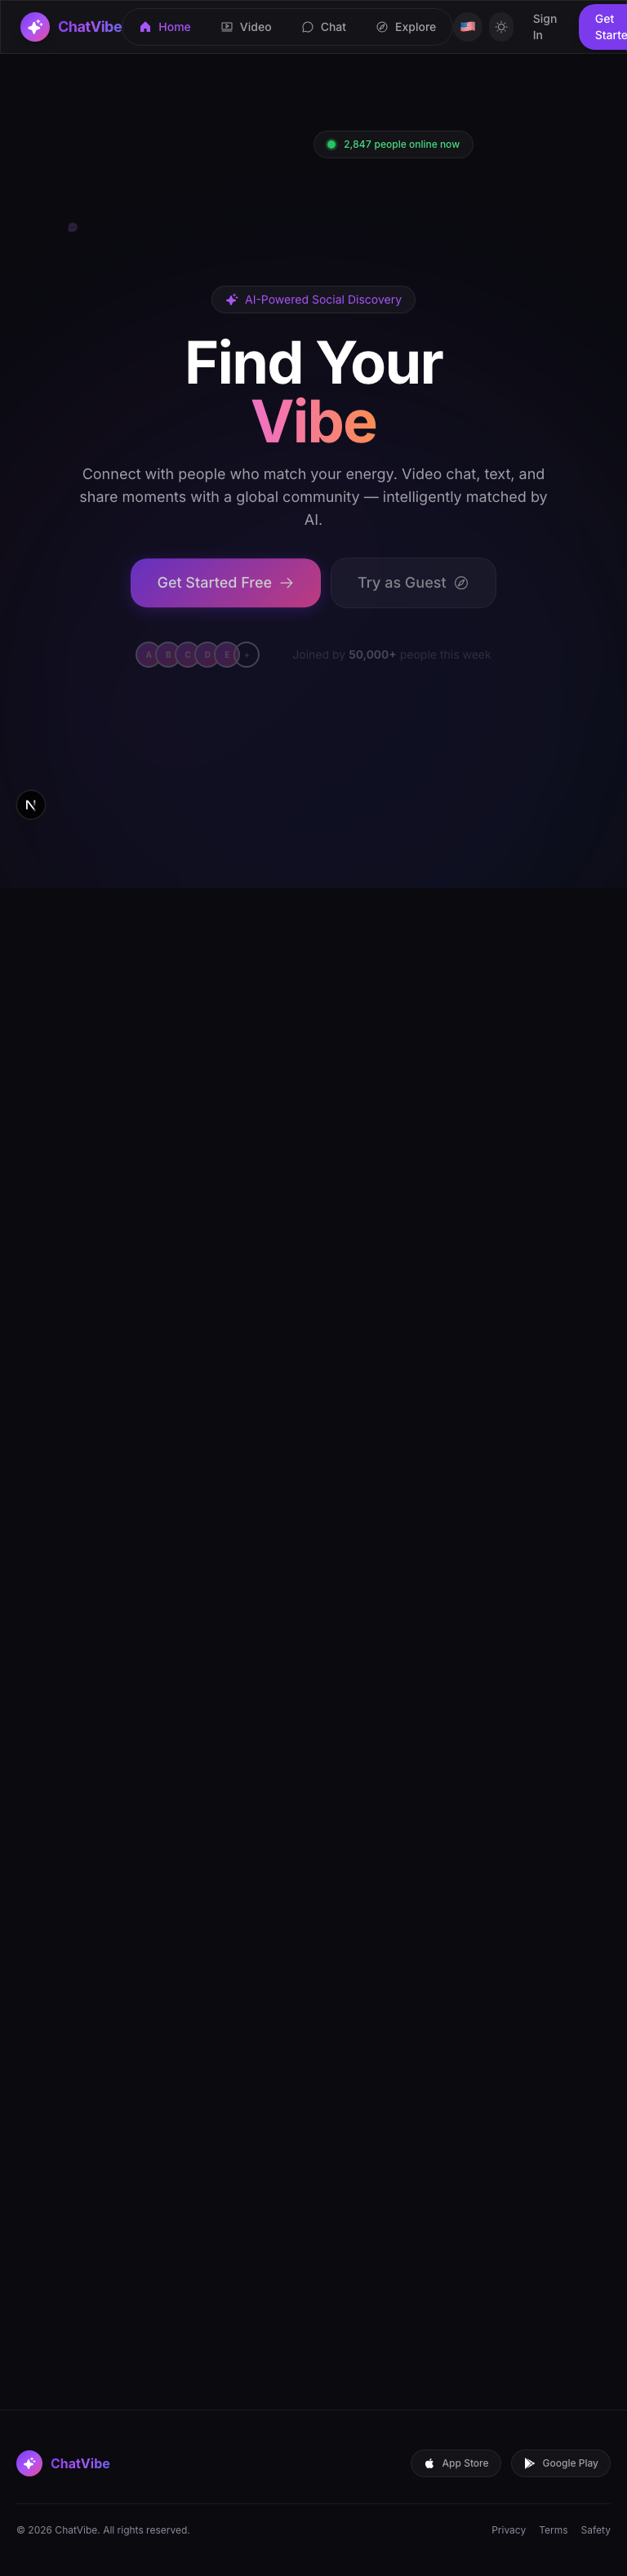
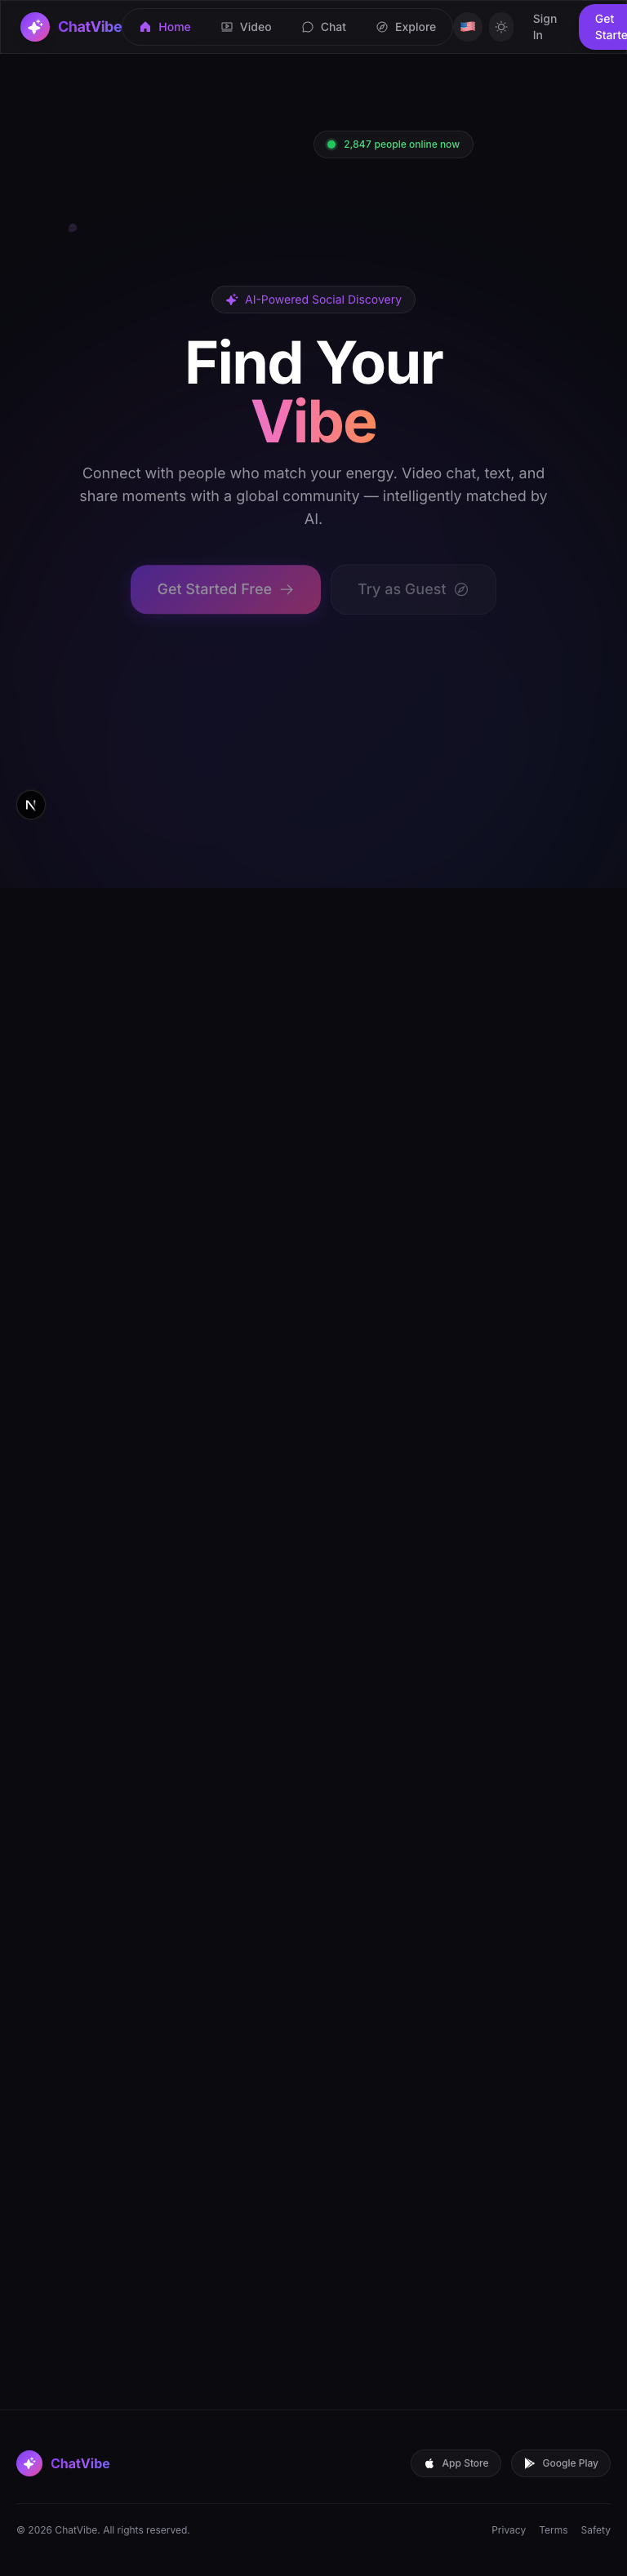
Fix OAuth error handling, add Suspense boundaries, improve signup UX

Changed region(s): [[0.1875, 0.2174, 0.5312, 0.2795], [0.6562, 0.2174, 0.6875, 0.2484]]

diff --git a/apps/web/src/app/auth/page.tsx b/apps/web/src/app/auth/page.tsx
@@ -1,7 +1,7 @@
 'use client';
 
-import { useState } from 'react';
-import { useRouter } from 'next/navigation';
+import { useState, useEffect, Suspense } from 'react';
+import { useRouter, useSearchParams } from 'next/navigation';
 import { motion } from 'framer-motion';
 import { useAuthStore } from '@/store/auth-store';
 import { supabase } from '@/lib/supabase';
@@ -11,13 +11,19 @@ import {
   Sparkle, ArrowRight, CheckCircle
 } from '@phosphor-icons/react';
 
-export default function AuthPage() {
+function AuthForm() {
   const router = useRouter();
+  const searchParams = useSearchParams();
   const { register, login, guestLogin, isLoading, error, message } = useAuthStore();
   const [mode, setMode] = useState<'login' | 'register'>('login');
   const [form, setForm] = useState({ email: '', password: '', displayName: '' });
   const [showPw, setShowPw] = useState(false);
   const [guestLoading, setGuestLoading] = useState(false);
+
+  useEffect(() => {
+    const err = searchParams.get('error');
+    if (err) useAuthStore.setState({ error: decodeURIComponent(err) });
+  }, [searchParams]);
 
   const toggleMode = () => setMode(m => m === 'login' ? 'register' : 'login');
 
@@ -195,10 +201,19 @@ export default function AuthPage() {
               return (
                 <button
                   key={s.label}
-                  onClick={() => supabase.auth.signInWithOAuth({
-                    provider: s.provider,
-                    options: { redirectTo: `${window.location.origin}/auth/callback` }
-                  })}
+                  onClick={async () => {
+                    try {
+                      const { error } = await supabase.auth.signInWithOAuth({
+                        provider: s.provider,
+                        options: { redirectTo: `${window.location.origin}/auth/callback` }
+                      });
+                      if (error) {
+                        useAuthStore.setState({ error: `${s.label} login failed: ${error.message}` });
+                      }
+                    } catch (err: any) {
+                      useAuthStore.setState({ error: `${s.label} login failed: ${err?.message || 'Unknown error'}` });
+                    }
+                  }}
                   className="flex flex-col items-center gap-1 py-3 rounded-xl glass hover:bg-white/10 transition-all text-sm font-medium"
                   title={s.label}
                 >
@@ -236,5 +251,13 @@ export default function AuthPage() {
         </div>
       </motion.div>
     </div>
+  );
+}
+
+export default function AuthPage() {
+  return (
+    <Suspense fallback={null}>
+      <AuthForm />
+    </Suspense>
   );
 }

diff --git a/apps/web/src/app/auth/callback/page.tsx b/apps/web/src/app/auth/callback/page.tsx
@@ -1,13 +1,21 @@
 'use client';
 
-import { useEffect } from 'react';
-import { useRouter } from 'next/navigation';
+import { Suspense, useEffect } from 'react';
+import { useRouter, useSearchParams } from 'next/navigation';
 import { supabase } from '@/lib/supabase';
 
-export default function AuthCallbackPage() {
+function AuthCallbackInner() {
   const router = useRouter();
+  const searchParams = useSearchParams();
 
   useEffect(() => {
+    const error = searchParams.get('error');
+    const errorDescription = searchParams.get('error_description');
+    if (error) {
+      router.push(`/auth?error=${encodeURIComponent(errorDescription || error)}`);
+      return;
+    }
+
     const handleCallback = async () => {
       const { data: { session }, error } = await supabase.auth.getSession();
       if (error || !session) {
@@ -22,11 +30,18 @@ export default function AuthCallbackPage() {
       }).catch(() => router.push(fallback));
     };
     handleCallback();
-  }, [router]);
+  }, [router, searchParams]);
 
+  return null;
+}
+
+export default function AuthCallbackPage() {
   return (
     <div className="min-h-screen flex items-center justify-center">
       <div className="w-8 h-8 border-2 border-primary border-t-transparent rounded-full animate-spin" />
+      <Suspense fallback={null}>
+        <AuthCallbackInner />
+      </Suspense>
     </div>
   );
 }

diff --git a/apps/web/test-results/report/index.html b/apps/web/test-results/report/index.html
@@ -87,4 +87,4 @@ Error generating stack: `+l.message+`
     <div id='root'></div>
   </body>
 </html>
[2 lines of base64/hex data omitted]